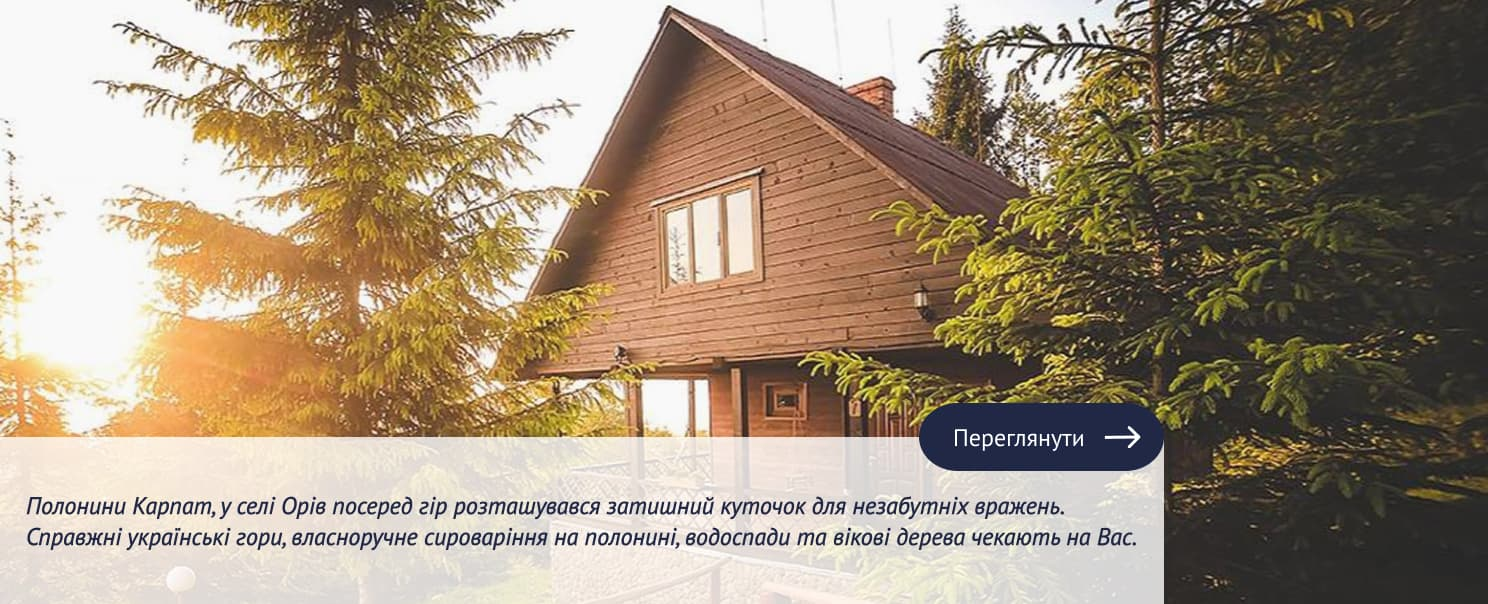
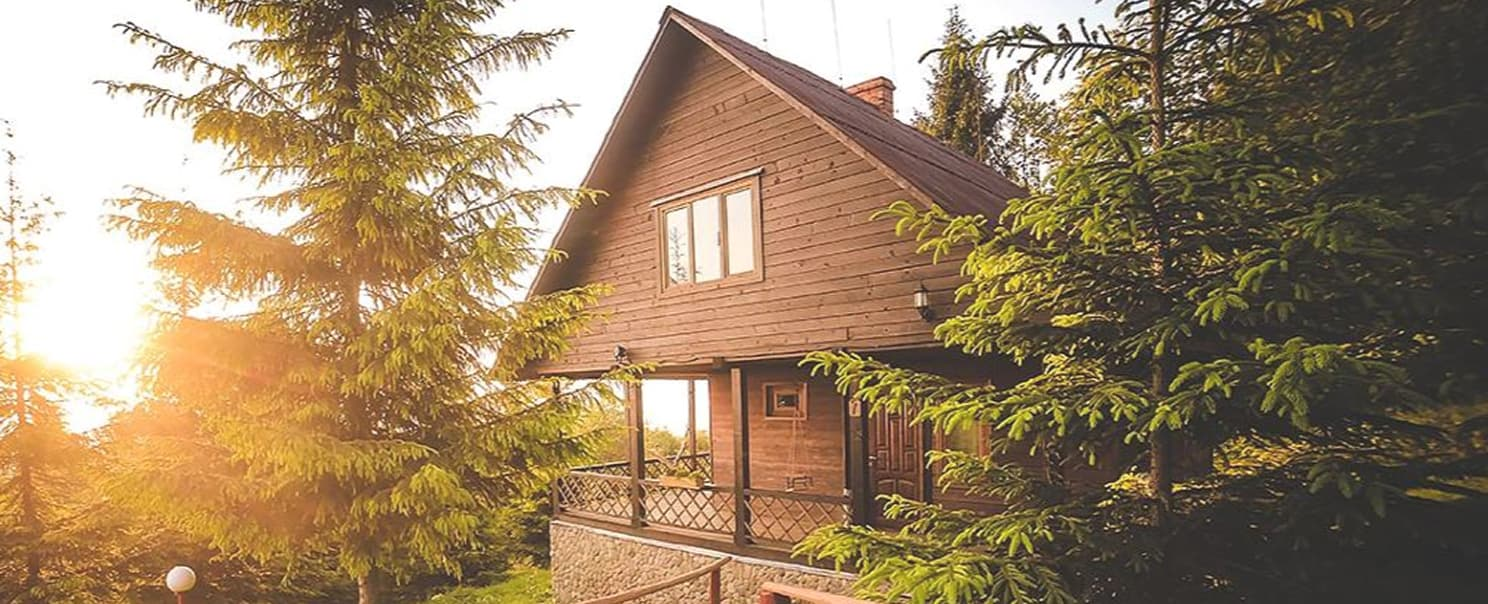
add img & HP & navigP

Changed region(s): [[0.0, 0.6556, 0.8038, 1.0]]

diff --git a/src/components/Navigation/Navigation.tsx b/src/components/Navigation/Navigation.tsx
@@ -1,16 +1,42 @@
 import { NavLink, Link } from "react-router-dom";
+import { useState, useEffect, useRef } from "react";
 import css from "./Navigation.module.css";
-// import { SiThemoviedatabase } from "react-icons/si";
 
 const Navigation = () => {
+  const [isOpen, setIsOpen] = useState(false);
+  const [selectedLang, setSelectedLang] = useState("UA");
+  const dropdownRef = useRef(null);
+
+  const toggleDropdown = () => {
+    setIsOpen((prev) => !prev);
+  };
+
+  const changeLanguage = (lang) => {
+    setSelectedLang(lang);
+    setIsOpen(false);
+  };
+
+  useEffect(() => {
+    const handleClickOutside = (event) => {
+      if (dropdownRef.current && !dropdownRef.current.contains(event.target)) {
+        setIsOpen(false);
+      }
+    };
+    document.addEventListener("mousedown", handleClickOutside);
+    return () => {
+      document.removeEventListener("mousedown", handleClickOutside);
+    };
+  }, []);
+
   return (
     <div className={css.container}>
       <nav className={css.nav}>
         <Link to="/" className={css.logoLink}>
-            <img
-              className={css.logoIcon}
-              src="/src/img/photo_2021-09-21_13-25-38-2x.jpg"
-            />
+          <img
+            className={css.logoIcon}
+            src="/src/img/photo_2021-09-21_13-25-38-1x.jpg"
+            alt="Logo"
+          />
         </Link>
         <NavLink
           to="/"
@@ -43,6 +69,28 @@ const Navigation = () => {
           Особистий кабінет
         </NavLink>
       </nav>
+ <div className={css.languageSwitcher1}>
+        <a href="#">
+          <svg id="icon-map" viewBox="0 0 32 32" width="60" height="60">
+            <path
+              fill="#fff"
+              d="M16 31.738c8.692 0 15.738-7.046 15.738-15.738s-7.046-15.738-15.738-15.738c-8.692 0-15.738 7.046-15.738 15.738s7.046 15.738 15.738 15.738zM16 2.229c1.293 0 2.768 1.161 3.978 3.753 0.427 0.917 0.798 1.971 1.1 3.132h-10.156c0.301-1.161 0.673-2.215 1.102-3.132 1.207-2.593 2.682-3.753 3.976-3.753zM10.24 5.151c-0.53 1.126-0.992 2.449-1.316 3.824l-0.028 0.14h-4.826c1.669-2.848 4.25-5.009 7.335-6.104l0.097-0.030c-0.474 0.649-0.897 1.385-1.263 2.17zM8.509 11.082c-0.24 1.46-0.378 3.143-0.378 4.857l0 0.064v-0.003c0 1.712 0.132 3.368 0.38 4.918h-5.377c-0.573-1.455-0.905-3.141-0.905-4.904v-0.014c0-1.731 0.321-3.391 0.905-4.918h5.374zM8.897 22.885c0.346 1.462 0.801 2.798 1.343 3.964 0.366 0.785 0.789 1.521 1.263 2.17-3.182-1.125-5.763-3.286-7.397-6.069l-0.035-0.065h4.826zM10.922 22.885h10.156c-0.308 1.208-0.685 2.25-1.149 3.244l0.047-0.112c-1.206 2.593-2.681 3.753-3.976 3.753-1.293 0-2.768-1.16-3.977-3.753-0.416-0.882-0.792-1.924-1.070-3.006l-0.028-0.126h-0.002zM21.496 20.918h-10.992c-0.258-1.459-0.406-3.14-0.406-4.854l0-0.067v0.003c0-1.737 0.144-3.394 0.405-4.918h10.992c0.262 1.524 0.405 3.181 0.405 4.918s-0.144 3.394-0.405 4.918zM23.103 22.885h4.826c-1.669 2.849-4.25 5.009-7.336 6.104l-0.097 0.030c0.474-0.649 0.897-1.385 1.263-2.17 0.543-1.166 0.997-2.502 1.343-3.964zM28.868 20.918h-5.379c0.248-1.55 0.38-3.206 0.38-4.918s-0.132-3.368-0.38-4.918h5.377c0.573 1.455 0.905 3.141 0.905 4.904v0.014c0 1.731-0.321 3.391-0.905 4.918h0.002zM20.497 2.981c3.182 1.125 5.763 3.285 7.397 6.069l0.035 0.065h-4.828c-0.352-1.515-0.813-2.837-1.396-4.091l0.053 0.127c-0.386-0.831-0.807-1.543-1.289-2.208l0.026 0.038h0.002z"
+            ></path>
+          </svg>
+        </a>
+      <div className={css.languageSwitcher2} ref={dropdownRef}>
+        <button className={css.langButton} onClick={toggleDropdown}>
+          {selectedLang}
+        </button>
+        {isOpen && (
+          <ul className={css.langList}>
+            <li onClick={() => changeLanguage("UA")}>UA</li>
+            <li onClick={() => changeLanguage("EN")}>EN</li>
+            <li onClick={() => changeLanguage("DE")}>DE</li>
+          </ul>
+        )}
+        </div>
+        </div>
     </div>
   );
 };

diff --git a/src/pages/HomePage/HomePage.tsx b/src/pages/HomePage/HomePage.tsx
@@ -1,31 +1,59 @@
-// import { useEffect, useState } from "react";
-// import { fetchTrendingMovies } from "../../service/moviesApi";
+import { useState } from "react";
 import css from "./HomePage.module.css";
-// import { Movie } from "@/types/types";
 
 const HomePage = () => {
-//   const [movies, setMovies] = useState<Movie[]>([]);
-//   const [error, setError] = useState<string | null>(null);
+  const [activeIndex, setActiveIndex] = useState<number | null>(null);
 
-//   useEffect(() => {
-//     const getTrendingMovies = async (): Promise<void> => {
-//       try {
-//         const results: Movie[] = await fetchTrendingMovies();
-//         setMovies(results);
-//       } catch (error) {
-//         setError(
-//           `Failed to fetch trending movies: ${(error as Error).message}`
-//         );
-//       }
-//     };
-//     getTrendingMovies();
-//   }, []);
+  const handleClick = () => {
+    console.log("Кнопка 'Переглянути' натиснута!");
+    // Можна зробити перехід на іншу сторінку, наприклад:
+    // window.location.href = "/new-page";
+  };
+
   return (
-    <div className={css.holidayTime}>
-      <h1 className={css.titleHoliday}>HolidayTime</h1>
-      <h2 className={css.subTitle}>Автентичний відпочинок серед українського колориту<span className={css.spanTitle}>!</span></h2>
-      {/* {error && <p style={{ color: "red" }}>{error}</p>} */}
-    </div>
+    <>
+      <div className={css.holidayTime}>
+        <h1 className={css.titleHoliday}>HolidayTime</h1>
+        <h2 className={css.subTitle}>
+          Автентичний відпочинок серед українського колориту
+          <span className={css.spanTitle}>!</span>
+        </h2>
+      </div>
+
+      <div className={css.reserveContainer}>
+        <div className={css.boxForText}>
+          <p className={css.textReserve}>
+            Полонини Карпат, у селі Орів посеред гір розташувався затишний
+            куточок для незабутніх вражень. Справжні українські гори,
+            власноручне сироваріння на полонині, водоспади та вікові дерева
+            чекають на Вас.
+          </p>
+        </div>
+
+        <div className={css.circleContainer}>
+          {[...Array(7)].map((_, index) => (
+            <span
+              key={index}
+              className={`${css.circle} ${
+                activeIndex === index ? css.active : ""
+              }`}
+              onClick={() => setActiveIndex(index)}
+            ></span>
+          ))}
+        </div>
+
+        <div className={css.containerBtnRes}>
+          <button className={css.buttonRes} onClick={handleClick}>
+            Переглянути
+            <span className={css.arrow}>
+              <svg id="icon-Arrow-1-1" viewBox="0 0 51 32" width="37" height="23" fill="#fff">
+                <path d="M49.926 16.818c0.371-0.376 0.599-0.893 0.599-1.464 0-0.582-0.238-1.109-0.623-1.487l-13.386-13.138c-0.376-0.368-0.892-0.596-1.46-0.596-0.585 0-1.113 0.24-1.492 0.628l-0 0c-0.371 0.376-0.599 0.893-0.599 1.464 0 0.582 0.238 1.109 0.623 1.487l0 0 11.9 11.679-11.712 11.932c-0.371 0.376-0.599 0.893-0.599 1.464 0 0.582 0.238 1.109 0.623 1.487l0 0c0.376 0.368 0.891 0.595 1.459 0.595 0.584 0 1.112-0.24 1.491-0.627l0-0 13.176-13.423zM1.183 17.955l47.272-0.509-0.033-4.174-47.272 0.509 0.033 4.174z"></path>
+                </svg>
+            </span>
+          </button>
+        </div>
+      </div>
+    </>
   );
 };
 

diff --git a/src/pages/HomePage/HomePage.module.css b/src/pages/HomePage/HomePage.module.css
@@ -24,3 +24,108 @@
     margin-top: 53px;
     padding-top: 85px;
 }
+
+.reserveContainer {
+    content:"" ;
+    position: relative;
+    margin-top: 53px ;
+    background-image: url(/src/img/Group1x.jpg), url(/src/img/Group2x.jpg);
+    background-size: cover;
+    background-repeat: no-repeat;
+    width: 100%;
+    height: 604px;
+}
+
+.textReserve {
+font-family: "PT Sans", sans-serif;
+font-style: italic;
+font-weight: 400;
+font-size: 24px;
+color: #202846;
+padding: 30px 25px 30px 25px;
+margin: 0;
+}
+
+.boxForText{
+    position: absolute;
+    bottom: 0;
+    left: 0;
+    width: 1164px;
+    height: 167px;
+    background: rgba(255, 255, 255, 0.8);
+}
+
+#icon-Ellipse-5-1{
+    border-radius: 100%;
+    fill: #a5bb4f;
+}
+
+.circleContainer {
+    position: absolute;
+    bottom: 13px;
+    left: 50%;
+    transform: translateX(-50%);
+    display: flex;
+    gap: 8px;
+    justify-content: center;
+}
+
+.circle {
+    width: 21px;
+    height: 20px;
+    background-color: #215023;
+    border-radius: 50%;
+    display: inline-block;
+    cursor: pointer;
+    transition: background-color 0.3s ease, transform 0.2s ease;
+}
+
+.circle:hover {
+    transform: scale(1.2);
+}
+
+.active {
+    background-color: #a5bb4f;
+    transform: scale(1.2);
+}
+
+.containerBtnRes{
+    content: "";
+    position: relative;
+}
+
+.buttonRes{
+    position: absolute;
+    top: 403px;
+    left: 50%;
+    background-color: #202846;
+    width: 245px;
+    height: 68px;
+    font-weight: 400;
+    font-size: 24px;
+    text-align: center;
+    color: #fff;
+    padding: 12px 24px;
+    border: none;
+    border-radius: 50px;
+    cursor: pointer;
+    display: flex;
+    align-items: center;
+    justify-content: center;
+    gap: 10px;
+    transition: background-color 0.3s ease, transform 0.2s ease;
+}
+
+.buttonRes:hover {
+    background-color:#c4c4c41a;
+    transform: scale(1.05);
+}
+
+.arrow {
+    font-size: 20px;
+    align-items: center;
+}
+
+#icon-Arrow-1-1{
+stroke-width: 3px;
+}

diff --git a/src/components/Navigation/Navigation.module.css b/src/components/Navigation/Navigation.module.css
@@ -1,8 +1,15 @@
 .container {
-    /* max-width: 1400px; */
+    max-width: 1900px;
     display: flex;
     align-items: center;
     justify-content: space-between;
+}
+
+.languageSwitcher1 {
+    display: flex;
+    align-items: center;
+    gap: 8px;
+    margin-right: 63px;
 }
 
 .nav {
@@ -12,7 +19,11 @@
     flex-direction: row;
     list-style-type: none;
     color: #fff;
-    justify-content: space-between;
+    /* justify-content: space-between; */
+    /* margin-right: 64px; */
+    /* margin-left: 292px; */
+    flex-wrap: nowrap;
+    /* margin-right: 64px; */
 }
 
 .link::before {
@@ -60,6 +71,71 @@
     height: 70px;
     margin-right: 292px;
     margin-left: 138px
+}
+
+.lang{
+    font-family: "PT Sans";
+    font-weight: 700;
+    font-size: 28px;
+    text-align: center;
+    color: #fff;
+}
+
+
+.langList {
+    position: absolute;
+    top: 105px;
+    right: 55px;
+    background: #202846;
+    border-radius: 5px;
+    box-shadow: 0px 4px 6px #c4c4c41a;
+    list-style: none;
+    padding: 5px 0;
+    margin: 0;
+    z-index: 100;
+    min-width: 80px;
+}
+
+.langList li {
+    padding: 8px 15px;
+    color: #fff;
+    cursor: pointer;
+    transition: background 0.3s ease;
+    text-align: center;
+    white-space: nowrap;
+}
+
+.langList li:hover {
+    background: #ffffff1a;
+}
+
+.langButton {
+    background: none;
+    border: none;
+    padding: 0;
+    margin-right: 8px;
+    color: #fff;
+    font-size: 28px;
+    cursor: pointer;
+    transition: background 0.3s ease, color 0.3s ease;
+}
+
+.langButton:hover {
+    background: #c4c4c41a;
+}
+
+.langButton:focus {
+    outline: none;
+    background: rgba(196, 196, 196, 0.2);
+}
+
+.active {
+    font-weight: bold;
+}
+
+.langContainer {
+    position: relative;
+    display: inline-block;
 }
 
 @media screen and (min-width: 768px) {

diff --git a/src/components/Header/Header.module.css b/src/components/Header/Header.module.css
@@ -7,5 +7,5 @@
     width: 100%;
     padding: 15px;
     background-color: #202846;
-
 }
+
